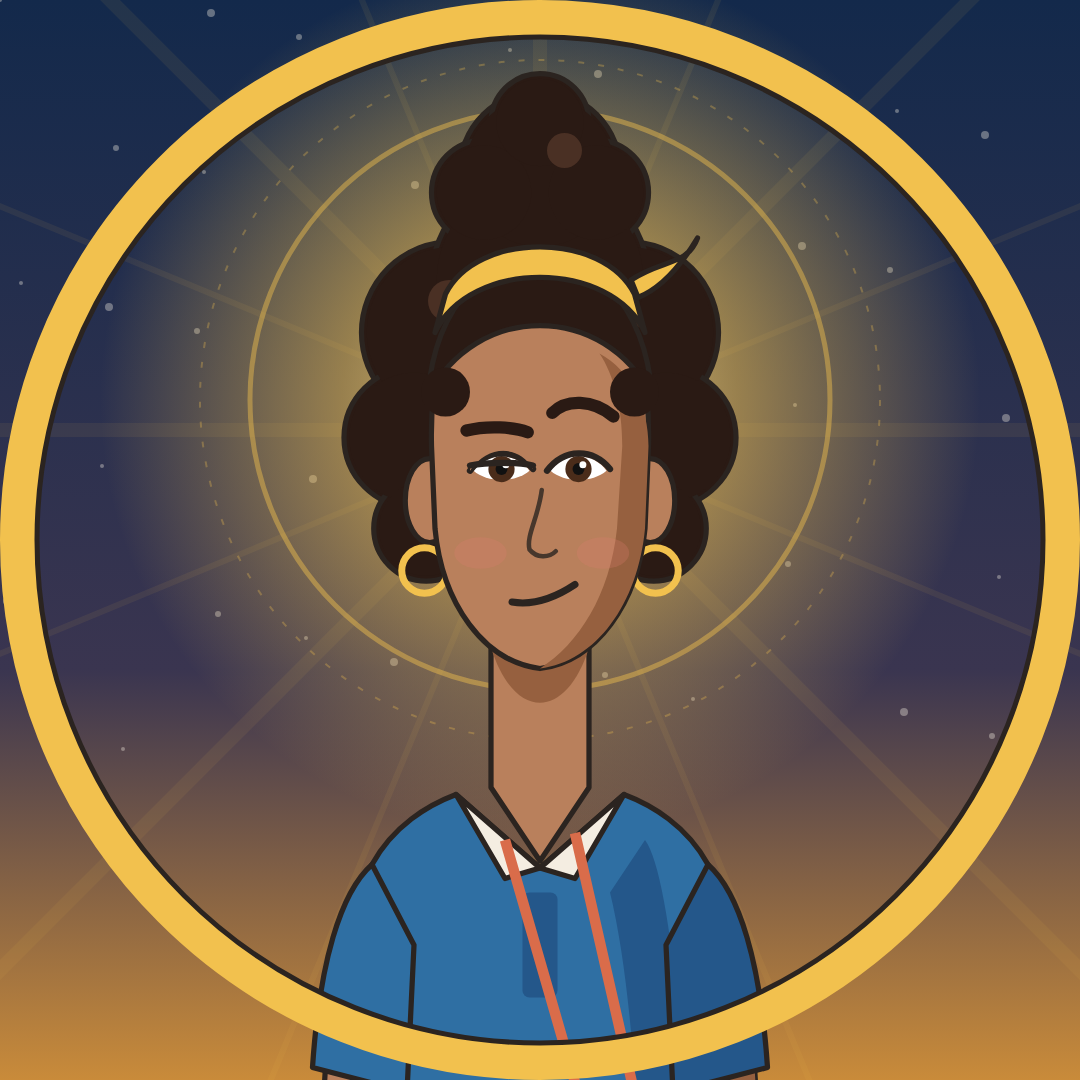
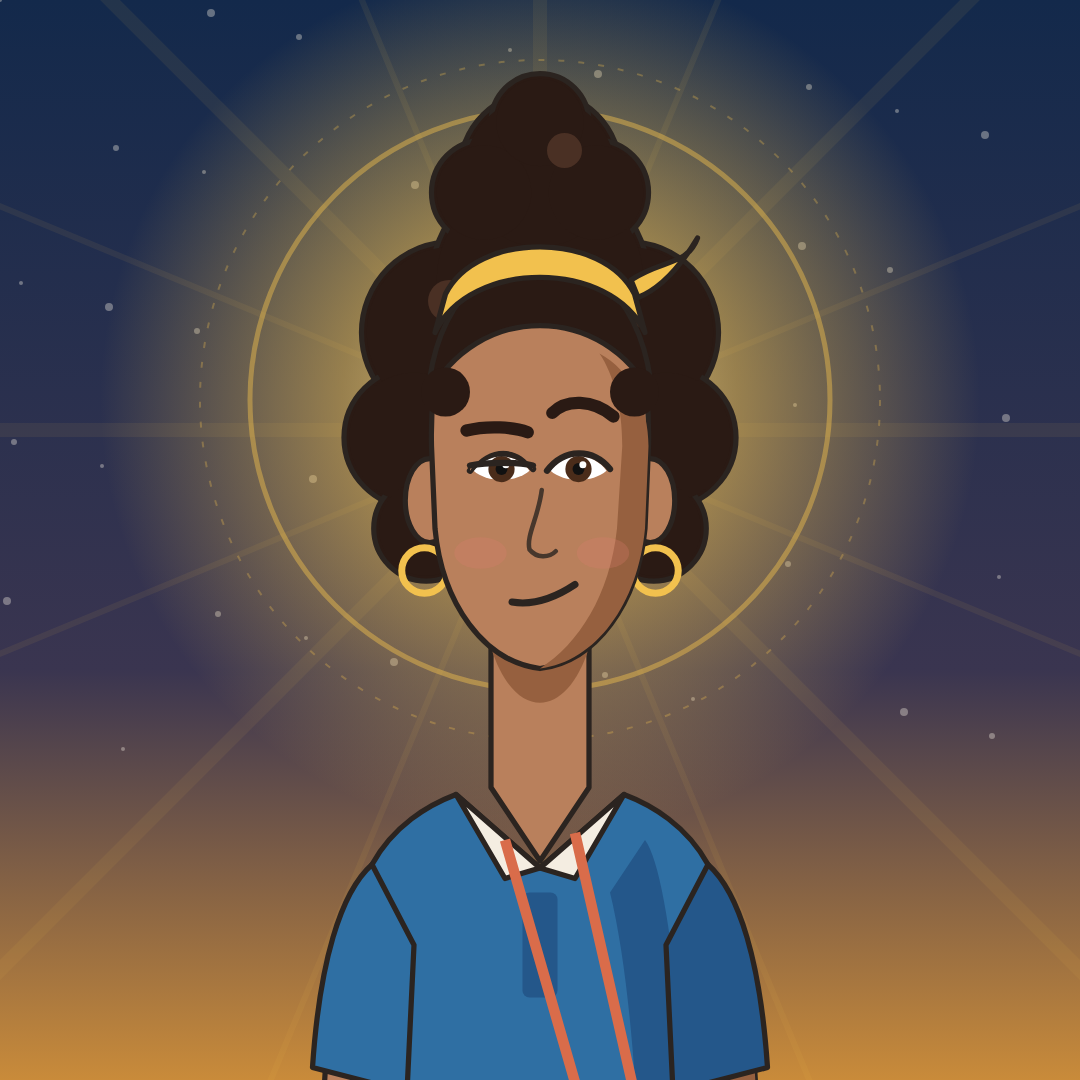
Marca: foto de perfil sem borda, fundo tinta
Claude-Session: https://claude.ai/code/session_01Vv6Frp9eCV4YKwP3MTsNjY

Changed region(s): [[0.0, 0.0, 1.0, 1.0]]

diff --git a/novo-estilo/marca/perfil.html b/novo-estilo/marca/perfil.html
@@ -17,6 +17,6 @@ s += `<circle cx="540" cy="400" r="440" fill="url(#luz)"/>`;
 s += `<circle cx="540" cy="400" r="290" fill="none" stroke="#F2C14E" stroke-width="5" opacity=".45"/><circle cx="540" cy="400" r="340" fill="none" stroke="#F2C14E" stroke-width="2" opacity=".3" stroke-dasharray="6 14"/>`;
 // Rose (ombros pra cima): cabeça ~ y 30..620, ombros saindo pela base
 s += `<g transform="translate(540,0) scale(1.75) translate(-200,40)">${rose({expr: 'desconfiada'})}</g>`;
-s += `</g><circle cx="540" cy="540" r="522" fill="none" stroke="#F2C14E" stroke-width="36"/><circle cx="540" cy="540" r="503" fill="none" stroke="#2B2420" stroke-width="5"/>`;
+s += `</g>`;  // sem borda (pedido do dono)
 document.getElementById('s').innerHTML = s;
 </script></body></html>
